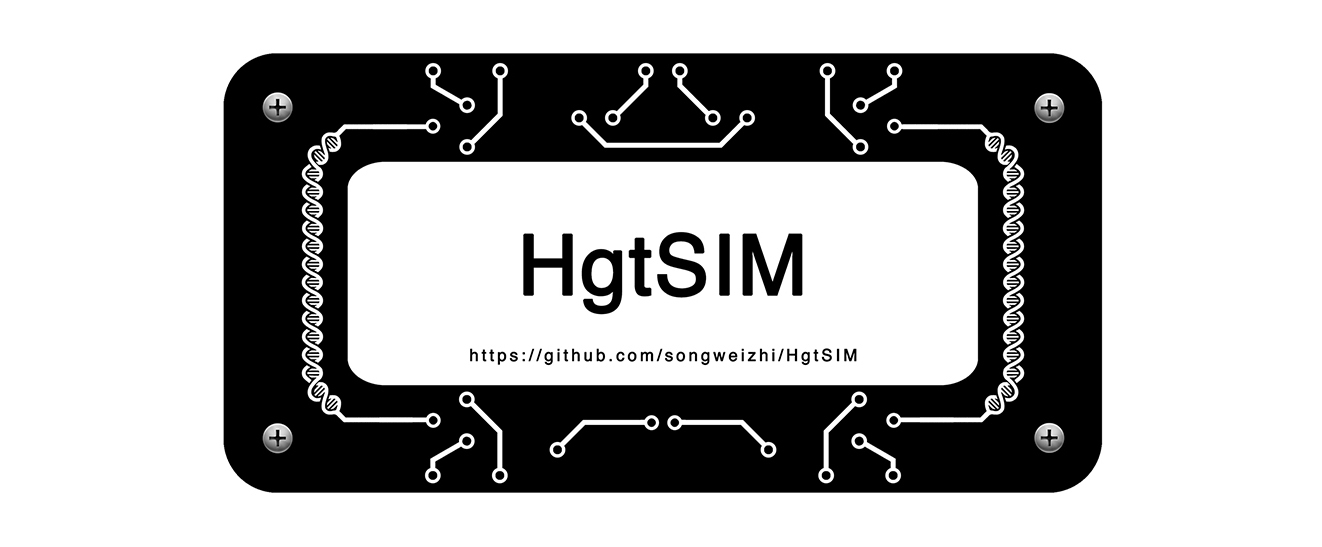
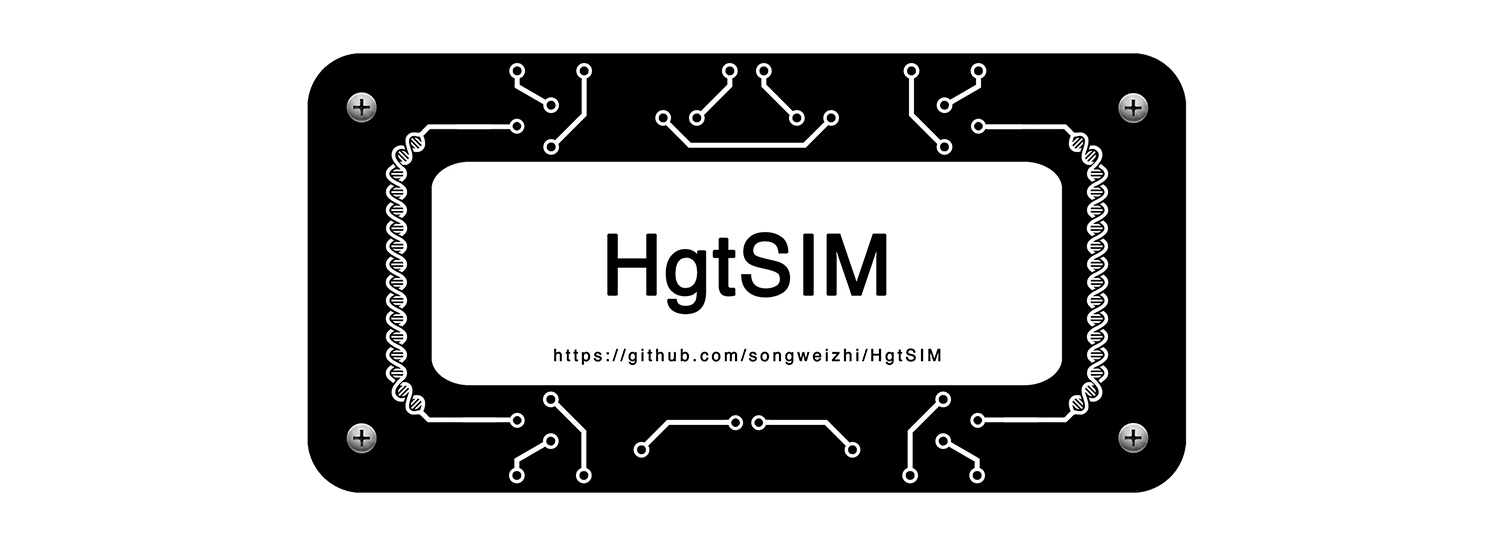
-

diff --git a/README.md b/README.md
@@ -1,5 +1,5 @@
 
-![logo](images/HgtSIM_logo.jpg)
+![logo](images/HgtSIM.jpg)
 ---
 
 + HgtSIM: A simulator for horizontal gene transfer (HGT) in microbial communities
